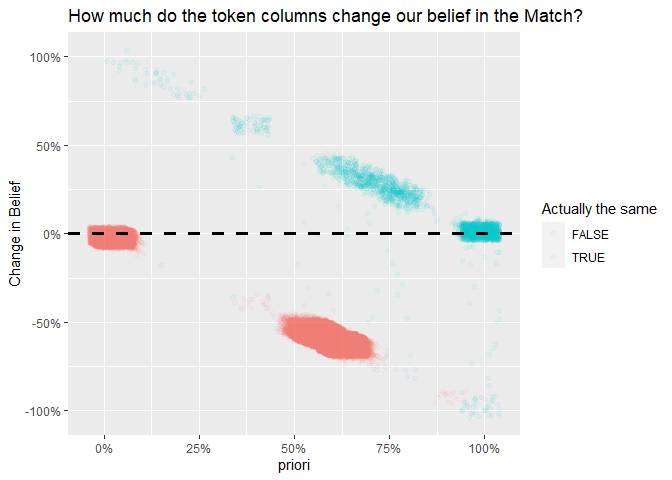
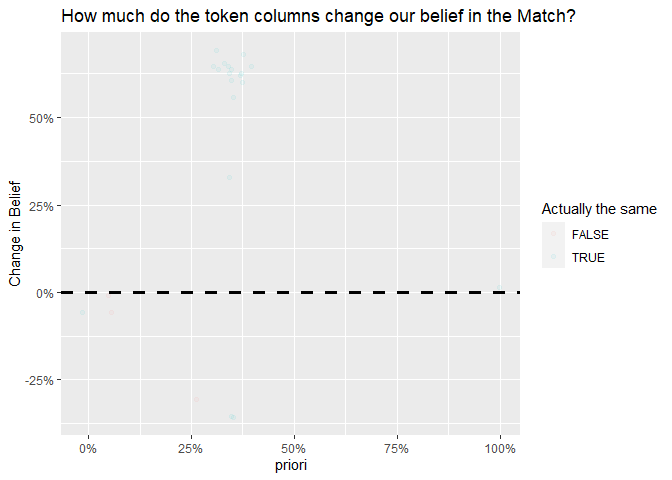
fix small problem in example files.

diff --git a/README.md b/README.md
@@ -17,6 +17,7 @@ devtools::install_github("csps-efpc/TokenLink")
 ## Load Libraries and Data from Internet
 
 ``` r
+source('R/tokenify.R')
 library(tidyr)
 library(dplyr)
 library(readr)
@@ -35,19 +36,19 @@ dat_alb <- readr::read_csv(alb_url)
 
 ### CEO Resignation data from [Tidy Tuesday](https://github.com/rfordatascience/tidytuesday/blob/master/data/2021/2021-04-27/readme.md)
 
-| coname              | exec_fullname        |
-|:--------------------|:---------------------|
-| INFOSEEK CORP       | Harry M. Motro       |
-| BELL INDUSTRIES INC | John A. Fellows      |
-| AMERIGROUP CORP     | James Gordon Carlson |
+| coname                       | exec_fullname        |
+|:-----------------------------|:---------------------|
+| SEACOAST BANKING CORP/FL     | Dennis S. Hudson III |
+| ACUITY BRANDS INC            | Vernon J. Nagel      |
+| SPECTRUM BRANDS HOLDINGS INC | Andreas Rouv         |
 
 ### Data from [open.alberta.ca](https://open.alberta.ca/dataset/a2b1fc9b-aac4-4718-8645-b0466ca5ec57)
 
-| companyName                           | address        | town       | province |
-|:--------------------------------------|:---------------|:-----------|:---------|
-| Provost Packers Ltd.                  | Box 570        | Provost    | AB       |
-| Alberta Safflower Growers Association | Box 822        | Lethbridge | AB       |
-| Normerica Inc.                        | 112 - 30 St. N | Lethbridge | AB       |
+| companyName               | address                         | town     | province |
+|:--------------------------|:--------------------------------|:---------|:---------|
+| Sons Bakery               | Bay 3, 303 - 58 Ave. SE         | Calgary  | AB       |
+| Potato Growers of Alberta | 6008 - 46 Ave.                  | Taber    | AB       |
+| De Fazio Gourmet          | Kennedale Plaza, 12853 - 52 St. | Edmonton | AB       |
 
 # Show Tokenization
 
@@ -65,18 +66,16 @@ dat_ceo_tokes |>
   knitr::kable(caption = 'Tokens')
 ```
 
-| row_name | token      | token_type   |
-|:---------|:-----------|:-------------|
-| 9014     | kulicke    | company_name |
-| 9014     | and        | company_name |
-| 9014     | soffa      | company_name |
-| 9014     | industries | company_name |
-| 3127     | oakwood    | company_name |
-| 3127     | homes      | company_name |
-| 3127     | corp       | company_name |
-| 7934     | carpenter  | company_name |
-| 7934     | technology | company_name |
-| 7934     | corp       | company_name |
+| row_name | token        | token_type   |
+|:---------|:-------------|:-------------|
+| 2722     | norrell      | company_name |
+| 2722     | corp         | company_name |
+| 1835     | harmon       | company_name |
+| 1835     | industries   | company_name |
+| 1835     | incorporated | company_name |
+| 4335     | photon       | company_name |
+| 4335     | dynamics     | company_name |
+| 4335     | incorporated | company_name |
 
 Tokens
 
@@ -98,10 +97,10 @@ dat_ceo_tokes |>
 | corp         | company_name | 2436 |
 | company      | company_name |  728 |
 | group        | company_name |  470 |
-| lear         | company_name |    4 |
-| conn         | company_name |    4 |
-| imports      | company_name |    4 |
-| cities       | company_name |    3 |
+| motor        | company_name |   13 |
+| shoney       | company_name |    4 |
+| uil          | company_name |    3 |
+| mcwhorter    | company_name |    2 |
 | zions        | company_name |    1 |
 | zoetis       | company_name |    1 |
 | zumiez       | company_name |    1 |
@@ -134,10 +133,10 @@ t_dat |>
 | company      | company_name |   728 |    37 |         26936 | 0.0056381 | 0.9920208 |
 | limited      | company_name |   114 |   197 |         22458 | 0.0047008 | 0.9921452 |
 | corp         | company_name |  2436 |     9 |         21924 | 0.0045890 | 0.9921616 |
-| bites        | company_name |     0 |     1 |             0 | 0.0000000 | 0.9990000 |
-| skin         | company_name |     2 |     0 |             0 | 0.0000000 | 0.9990000 |
-| rock         | company_name |     1 |     3 |             3 | 0.0000006 | 0.9982484 |
-| amsco        | company_name |     2 |     0 |             0 | 0.0000000 | 0.9990000 |
+| nacco        | company_name |     2 |     0 |             0 | 0.0000000 | 0.9990000 |
+| cococo       | company_name |     0 |     1 |             0 | 0.0000000 | 0.9990000 |
+| ems          | company_name |     3 |     0 |             0 | 0.0000000 | 0.9990000 |
+| pot          | company_name |     0 |     1 |             0 | 0.0000000 | 0.9990000 |
 | yat          | company_name |     0 |     1 |             0 | 0.0000000 | 0.9990000 |
 | yeg          | company_name |     0 |     1 |             0 | 0.0000000 | 0.9990000 |
 | yogurt       | company_name |     0 |     1 |             0 | 0.0000000 | 0.9990000 |
@@ -152,7 +151,7 @@ t_dat <-
   t_dat |> 
   find_posterior()
 
-t_dat$all_evidance %>% 
+t_dat$all_evidence |> 
   {\(.) bind_rows(head(., nsamp), sample_n(.,nsamp), tail(., nsamp))}() |>
   arrange(desc(posterior)) |>
   knitr::kable()
@@ -164,10 +163,10 @@ t_dat$all_evidance %>%
 | 59           | 40           |                3 |              1 | 3.9e-06 | 1.0000000 |
 | 5962         | 40           |                3 |              1 | 3.9e-06 | 1.0000000 |
 | 7464         | 40           |                3 |              1 | 3.9e-06 | 1.0000000 |
-| 8465         | 134          |                2 |              3 | 3.9e-06 | 0.0136264 |
+| 170          | 133          |                3 |              1 | 3.9e-06 | 0.9999739 |
+| 172          | 133          |                3 |              1 | 3.9e-06 | 0.9999739 |
+| 6038         | 134          |                2 |              3 | 3.9e-06 | 0.0136264 |
 | 171          | 134          |                2 |              3 | 3.9e-06 | 0.0136264 |
-| 172          | 134          |                2 |              3 | 3.9e-06 | 0.0136264 |
-| 3040         | 241          |                3 |              4 | 3.9e-06 | 0.0103901 |
 | 3041         | 241          |                3 |              4 | 3.9e-06 | 0.0103901 |
 | 4404         | 241          |                3 |              4 | 3.9e-06 | 0.0103901 |
 | 6032         | 241          |                3 |              4 | 3.9e-06 | 0.0103901 |
@@ -188,10 +187,10 @@ t_dat |>  joined_results(include_row_numbers = TRUE, link_col_nms = c('posterior
 | 59           | 40           | 1.0000000 |                3 |              1 | ARCHER-DANIELS-MIDLAND CO | Archer Daniels Midland         |
 | 5962         | 40           | 1.0000000 |                3 |              1 | ARCHER-DANIELS-MIDLAND CO | Archer Daniels Midland         |
 | 7464         | 40           | 1.0000000 |                3 |              1 | ARCHER-DANIELS-MIDLAND CO | Archer Daniels Midland         |
-| 7464         | 40           | 1.0000000 |                3 |              1 | ARCHER-DANIELS-MIDLAND CO | Archer Daniels Midland         |
-| 172          | 133          | 0.9999739 |                3 |              1 | COCA-COLA CO              | Coca-Cola Bottling Company     |
+| 59           | 40           | 1.0000000 |                3 |              1 | ARCHER-DANIELS-MIDLAND CO | Archer Daniels Midland         |
+| 171          | 133          | 0.9999739 |                3 |              1 | COCA-COLA CO              | Coca-Cola Bottling Company     |
 | 170          | 134          | 0.0136264 |                2 |              3 | COCA-COLA CO              | Coca-Cola Bottling Ltd.        |
-| 3041         | 241          | 0.0103901 |                3 |              4 | STEWART ENTERPRISES -CL A | J & A Stewart Enterprises Ltd. |
+| 3040         | 241          | 0.0103901 |                3 |              4 | STEWART ENTERPRISES -CL A | J & A Stewart Enterprises Ltd. |
 | 3041         | 241          | 0.0103901 |                3 |              4 | STEWART ENTERPRISES -CL A | J & A Stewart Enterprises Ltd. |
 | 4404         | 241          | 0.0103901 |                3 |              4 | STEWART ENTERPRISES -CL A | J & A Stewart Enterprises Ltd. |
 | 6032         | 241          | 0.0103901 |                3 |              4 | STEWART ENTERPRISES -CL A | J & A Stewart Enterprises Ltd. |

diff --git a/reclin.md b/reclin.md
@@ -2,9 +2,7 @@ TokenLink
 ================
 2022-05-05
 
-# TokenLink
-
-link two dataset using tokens or words in common between them
+Link two data sets using tokens or words in common between them.
 
 # Install Libraries
 
@@ -59,17 +57,17 @@ bind_cols(orig_dat, edited_dat |> rename_all(\(x){paste0(x,"_edited")})) |>
   knitr::kable(caption = 'original and edited data')
 ```
 
-| address                             | address_edited                                 | age | age_edited | company_name                                | company_name_edited                         | first_name  | first_name_edited | last_name  | last_name_edited |
-|:------------------------------------|:-----------------------------------------------|:----|:-----------|:--------------------------------------------|:--------------------------------------------|:------------|:------------------|:-----------|:-----------------|
-| Wyoming Amsterdam                   | Wyoming Amsterdam                              | 21  | 21         | Forklift Matters Auto Limited               | Forklift ethane Auto Limited                | Anthony     | Anthony           | Bairam     | Bairaim          |
-| Westfalen Finland South States      | Westfalen Finland South States                 | 79  | 79         | Limited_liability                           | Limited_liability                           | Christian   | Christin          | Freundlich | Freundlich       |
-| Streetsboro Italy                   | Italy oilskin                                  | 47  | 47         | Trihodos Music                              | Trihodos Music                              | Sofia       | Sofia             | Cumming    | Cuming           |
-| Heibei Oklahoma Michigan New United | Heibei Oklahoma zinky Michigan New United      | 76  | 76         | Nayrim Straylight Limited_liability Limited | Nayrim Straylight Limited_liability Limited | Christopher | Christopher       | Renouf     | Renouf           |
-| Äÿ Finland Netherlands Texas        | Äÿ immobilizing Netherlands Texas immobilizing | 71  | 71         | Corridor Board                              | Board                                       | Sofia       | Sofia             | Wittig     | Wittig           |
+| address                                      | address_edited                                      | age | age_edited | company_name                       | company_name_edited                       | first_name | first_name_edited | last_name | last_name_edited  |
+|:---------------------------------------------|:----------------------------------------------------|:----|:-----------|:-----------------------------------|:------------------------------------------|:-----------|:------------------|:----------|:------------------|
+| Viã Oak Fort States States United            | Viã Fort bubalis States bubalis United              | 33  | 33         | Payments Electronics Oy Financial  | Electronics Oy Financial                  | David      | David dichromaiso | Lauren    | Laure             |
+| Ankara Vegas United                          | Ankara Vegas United                                 | 5   | 5          | Espiritualidade Africa O           | Espiritualidade O pentacles               | Samantha   | Samanth           | Ranno     | Ranno             |
+| Oregon                                       |                                                     | 84  | 84         | Gancedoat A Incorporated Limited   | Gancedoat A Incorporated Limited defender | Dylan      | Dylan             | Tullison  | Tullison peltless |
+| States                                       |                                                     | 78  | 78         | Upcycle Stefan Isd Services        | Isd Services superscribe                  | Isaac      | Isaac             | Goldstein | Gvoldstein        |
+| Comer Reading Greater Illinois States United | Comer Reading rottes Greater Illinois States United | 81  | 81         | Rmores Dass Earth South Industries | Rmores Dass Earth South                   | Matthew    | Matthew           | Kleese    | Kleese            |
 
 original and edited data
 
-## Block Pairs by First Name or Last Name is the same, as wll any
+## Block Pairs by First Name or Last Name is the same, as well any company_name or address fields that have a word in common that is not to common.
 
 ``` r
 blocked_pairs <- reclin_pair_blocking(x = orig_dat,
@@ -80,37 +78,24 @@ blocked_pairs <- reclin_pair_blocking(x = orig_dat,
                                       col_nms_y =  c('company_name', 'address'),   # Column Names
                                       min_token_u_prob = 0.0000784)               # min u_prob to consider blocking on
 
-blocked_pairs
+blocked_pairs |>
+  as_tibble() 
 ```
 
-    ## Simple blocking
-    ##   Blocking variable(s): first_name
-    ##   First data set:  2 500 records
-    ##   Second data set: 2 500 records
-    ##   Total number of pairs: 97 192 pairs
-    ## 
-    ## Showing first 20 pairs:
-    ##    x   y
-    ## 1  1   2
-    ## 2  1  15
-    ## 3  1  62
-    ## 4  1 111
-    ## 5  1 153
-    ## 6  1 261
-    ## 7  1 322
-    ## 8  1 329
-    ## 9  1 349
-    ## 10 1 389
-    ## 11 1 411
-    ## 12 1 469
-    ## 13 1 470
-    ## 14 1 486
-    ## 15 1 522
-    ## 16 1 610
-    ## 17 1 634
-    ## 18 1 676
-    ## 19 1 724
-    ## 20 1 726
+    ## # A tibble: 22 x 2
+    ##        x     y
+    ##    <int> <int>
+    ##  1     1     1
+    ##  2     2     2
+    ##  3     2    17
+    ##  4     3     3
+    ##  5     4    13
+    ##  6     5     5
+    ##  7     6     6
+    ##  8     7     7
+    ##  9     8     8
+    ## 10    13    13
+    ## # ... with 12 more rows
 
 ## Generate Reclin EM Scores
 
@@ -129,13 +114,13 @@ p |>
   knitr::kable(caption = 'Show scores cenerated from Reclin')
 ```
 
-|    x |    y | first_name | last_name |   sim_sum | scores_mprob | scores_uprob | scores_mpost | scores_upost | scores_weight |
-|-----:|-----:|-----------:|----------:|----------:|-------------:|-------------:|-------------:|-------------:|--------------:|
-|  393 |  186 |  1.0000000 | 0.0000000 | 1.0000000 |    0.8754236 |    0.6577243 |    0.1134210 |    0.8865790 |     0.2859220 |
-| 1008 |  366 |  0.4416667 | 0.0000000 | 0.4416667 |    0.3924216 |    0.4747121 |    0.0736071 |    0.9263929 |    -0.1903717 |
-|  892 |  283 |  1.0000000 | 0.5555556 | 1.5555556 |    0.4517976 |    0.2968852 |    0.1276056 |    0.8723944 |     0.4198887 |
-| 1356 | 2268 |  1.0000000 | 0.4305556 | 1.4305556 |    0.5471135 |    0.3780740 |    0.1221078 |    0.8778922 |     0.3695662 |
-| 2248 |  747 |  0.4416667 | 0.0000000 | 0.4416667 |    0.3924216 |    0.4747121 |    0.0736071 |    0.9263929 |    -0.1903717 |
+|   x |   y | first_name | last_name |  sim_sum | scores_mprob | scores_uprob | scores_mpost | scores_upost | scores_weight |
+|----:|----:|-----------:|----------:|---------:|-------------:|-------------:|-------------:|-------------:|--------------:|
+|  11 |  11 |  0.8095238 | 1.0000000 | 1.809524 |    0.6619053 |    0.3691278 |    0.7196689 |    0.2803311 |     0.5839794 |
+|   3 |   3 |  1.0000000 | 0.9333333 | 1.933333 |    0.7130048 |    0.4618474 |    0.6884952 |    0.3115048 |     0.4342535 |
+|   4 |   4 |  0.7777778 | 1.0000000 | 1.777778 |    0.6449610 |    0.3546526 |    0.7224990 |    0.2775010 |     0.5980511 |
+|   6 |   6 |  1.0000000 | 0.8235294 | 1.823529 |    0.6297190 |    0.4715125 |    0.6565976 |    0.3434024 |     0.2893280 |
+|   7 |   7 |  1.0000000 | 1.0000000 | 2.000000 |    0.7635711 |    0.4559793 |    0.7056602 |    0.2943398 |     0.5155588 |
 
 Show scores cenerated from Reclin
 
